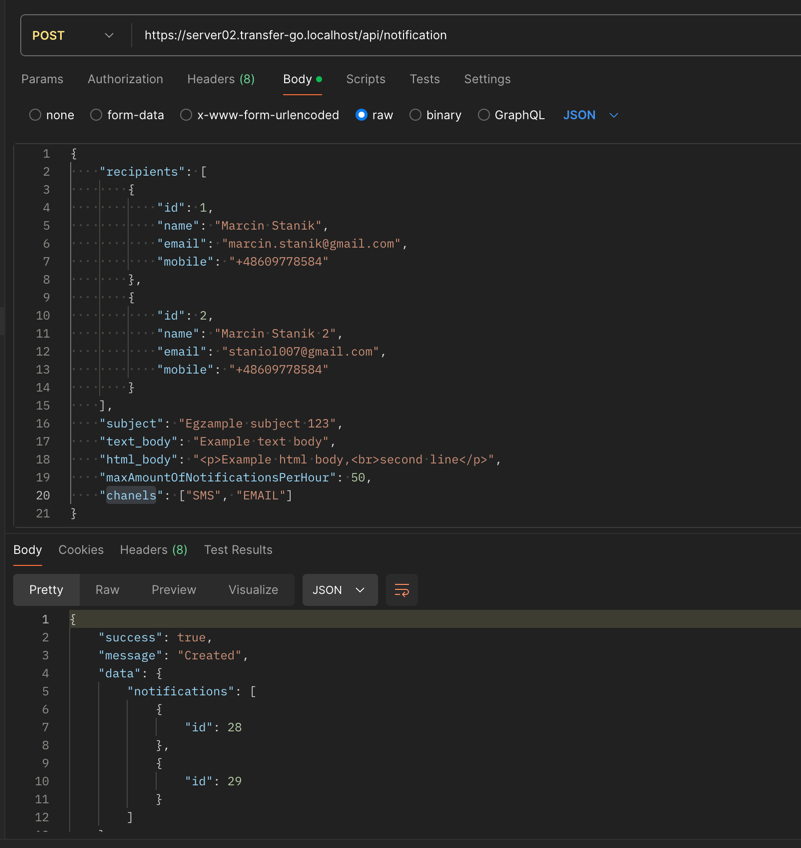
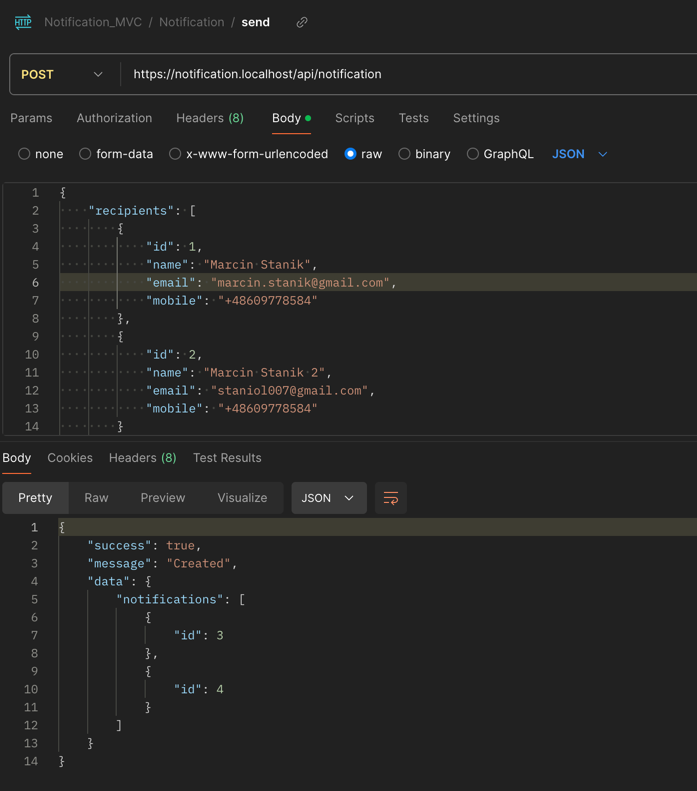
some smart comment :)

diff --git a/README.md b/README.md
@@ -2,10 +2,46 @@
 
 * Author: Marcin Stanik
 
+# Used technologies
+
+* PHP 8.3
+* Python
+* Symfony 7.1 - traditional way - MVC, DDD/CQRS will be prepared soon 
+* MySQL
+* RabbitMQ
+* Rest API
+* Docker (dunglas/symfony-docker, https://github.com/dunglas/symfony-docker)
+* Cron job
+* Sending emails by AWS SES (https://docs.aws.amazon.com/ses/latest/APIReference/API_SendEmail.html)
+* Sending email by SMTP
+* Sending SMS by Twilio (https://www.twilio.com/docs/messaging/api)
+
+# Description:
+
+#### 1
+Application is responsible for sending notifications by different channels:
+* Different messaging service providers (email: AWS SES, SMTP | sms: Twilio)
+* Different technologies for communication (e.g. SMS, email, push notification, Facebook Messenger, etc)
+
+#### 2
+* If some of the service notification is down then notification is send by the second one (but only from the same group e.g. email)
+* If all servers down then notification is postponed to send later
+
+#### 3
+Everything is configurable (config/custom/notifications.yaml):
+* define several providers for the same type of notification channel. e.g. two providers for SMS
+* enable/disable different communication channels
+* maximum number of attempts to send a single message
+* delay in minutes for re-sending the notification
+
+#### 4
+Logs:
+* tracking in DB what messages were sent, when, and to whom.
+
 ### 1. All API requests ( REST )
-- https://transfer-go.localhost/api/notification
-- https://transfer-go.localhost/api/notification/email
-- https://transfer-go.localhost/api/notification/sms
+- (POST) https://notification.localhost/api/notification
+- (POST) https://notification.localhost/api/notification/email
+- (POST) https://notification.localhost/api/notification/sms
 
 save notifications in the database, function **NotificationService->storage()**
 
@@ -59,20 +95,24 @@ There are 3 steps of sending notifications:
 ####################
 
 
-### 1. DOCKER
+### Installation
 
+* git clone https://github.com/MarcinStanik/Notification.git notification
+* cd notification
 * docker compose down --remove-orphans
 * docker compose build --no-cache
-* SERVER_NAME="transfer-go.localhost" docker compose up -d --wait
+* SERVER_NAME="notification.localhost" docker compose up -d --wait
+* edit configuration: config/custom/notifications.yaml
+* URL: https://notification.localhost/
 
 --
 
 * docker compose stop
-* SERVER_NAME="transfer-go.localhost" docker compose up -d --wait
+* SERVER_NAME="notification.localhost" docker compose up -d --wait
 
 ### 2. URL:
 
-https://transfer-go.localhost/
+https://notification.localhost/
 
 ### 3. configs:
 
@@ -80,10 +120,10 @@ https://transfer-go.localhost/
 
 ### 4. API
 
-#### 4.1. https://transfer-go.localhost/api/notification
+#### 4.1. https://notification.localhost/api/notification
 
 ```
-curl --location 'https://transfer-go.localhost/api/notification' \
+curl --location 'https://notification.localhost/api/notification' \
 --header 'Content-Type: application/json' \
 --data-raw '{
 "recipients": [
@@ -108,10 +148,10 @@ curl --location 'https://transfer-go.localhost/api/notification' \
 }'
 ```
 
-#### 4.2. https://transfer-go.localhost/api/notification/email
+#### 4.2. https://notification.localhost/api/notification/email
 
 ```
-curl --location 'https://transfer-go.localhost/api/notification/email' \
+curl --location 'https://notification.localhost/api/notification/email' \
 --header 'Content-Type: application/json' \
 --data-raw '{
 "recipients": ["staniol007@gmail.com"],
@@ -122,10 +162,10 @@ curl --location 'https://transfer-go.localhost/api/notification/email' \
 }'
 ```
 
-#### 4.3. https://transfer-go.localhost/api/notification/sms
+#### 4.3. https://notification.localhost/api/notification/sms
 
 ```
-curl --location 'https://transfer-go.localhost/api/notification/sms' \
+curl --location 'https://notification.localhost/api/notification/sms' \
 --header 'Content-Type: application/json' \
 --data '{
 "recipients": ["+48609778510", "+48609778511", "+48609778512", "+48609778513", "+48609778514", "+48609778515", "+48609778516", "+48609778517", "+48609778518", "+48609778519"],
@@ -147,7 +187,7 @@ curl --location 'https://transfer-go.localhost/api/notification/sms' \
 * u: user
 * p: password
 
-## 7. Test
+## 7. Tests
 
 * docker compose exec php bin/phpunit
 
